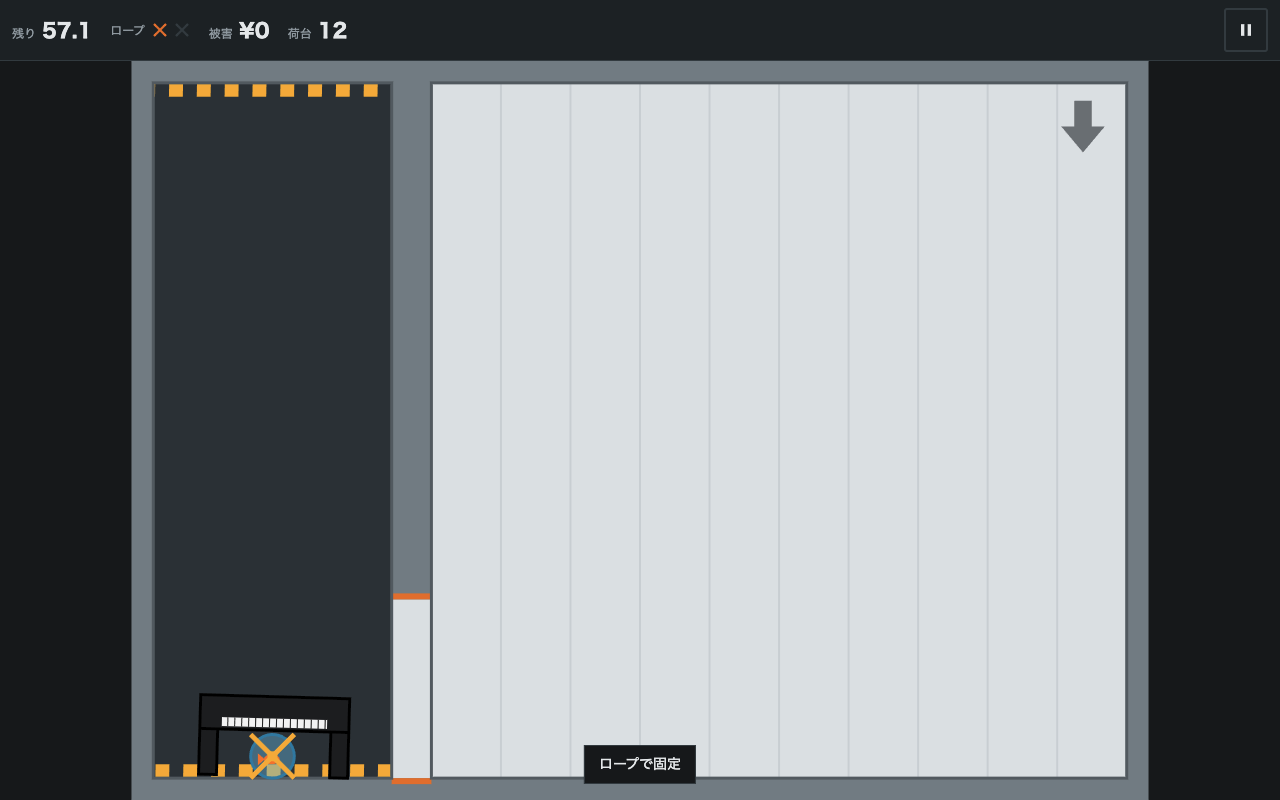
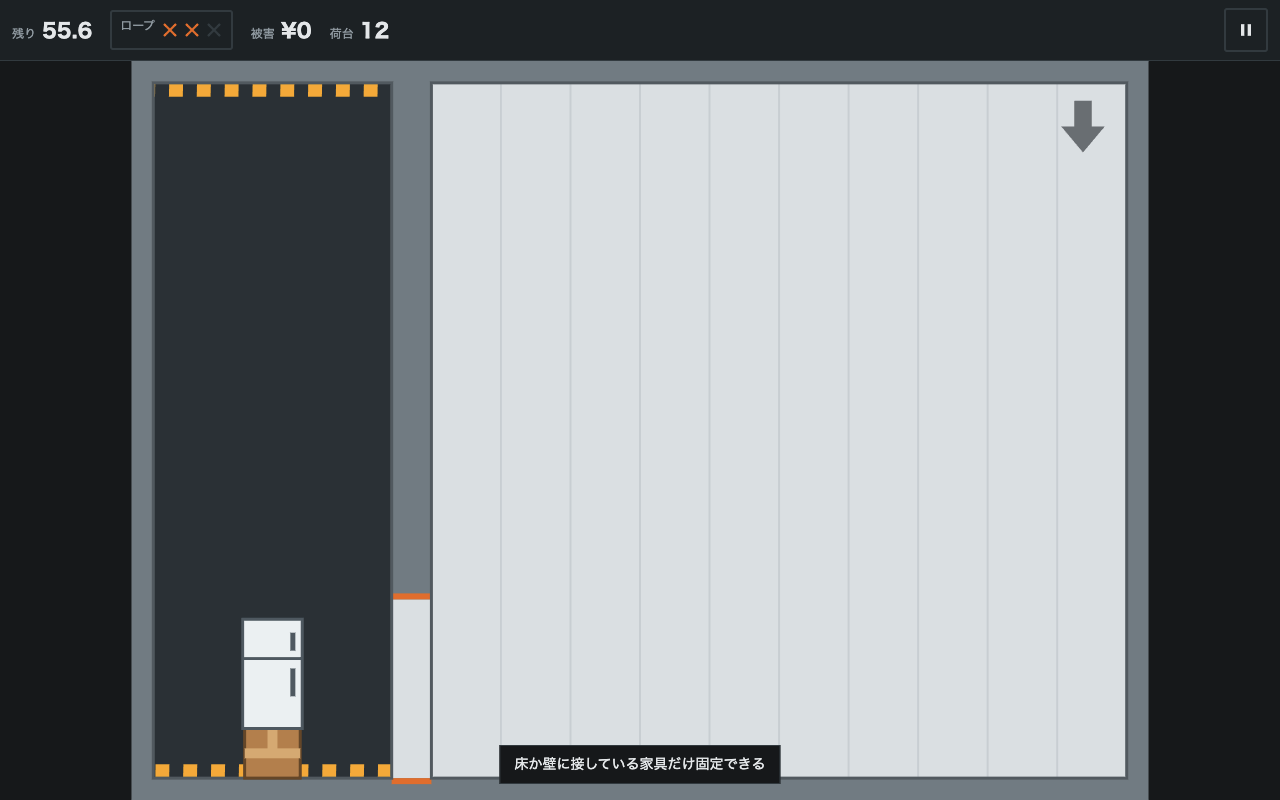
Lift touch-held items only after the finger moves, room-ceiling detection for portrait, resize on HUD wrap
- long press keeps the item on the floor so it can be tied
- Ceiling Piano requires the room's top edge (divider/door in portrait), not the bay
- ResizeObserver keeps pointer mapping right when the HUD wraps
- share prepare failure no longer leaves the button disabled
- balance check runs for both layouts; portrait tests use literal geometry

Changed region(s): [[0.1562, 0.75, 0.2812, 1.0], [0.375, 0.9062, 0.625, 1.0], [0.0312, 0.0, 0.3125, 0.0625]]

diff --git a/test/review.test.js b/test/review.test.js
@@ -9,6 +9,9 @@ const Rules = require('../src/rules.js');
 
 const FRAME = 1000 / 60;
 const ROOM = { x: 280, y: 0, w: 700, h: 700 };
+const P_BAY = { x: 0, y: 0, w: 700, h: 240 };
+const P_ROOM = { x: 0, y: 280, w: 700, h: 700 };
+const P_DOOR = { from: 0, size: 180 };
 const BAY = { x: 0, y: 0, w: 240, h: 700 };
 
 function run(world, seconds) {
@@ -18,7 +21,7 @@ function run(world, seconds) {
 // ---------- strategies for the balance check ----------
 
 /** Drop a spawned item gently onto the room surface gravity points at. */
-function placeInRoom(game, item) {
+function placeInRoom(game, item, ROOM) {
   const w = game.world;
   const g = { down: [0, 1], up: [0, -1], left: [-1, 0], right: [1, 0] }[w.gravity];
   const others = w.items.filter((it) => it !== item).map((it) => it.body);
@@ -44,15 +47,16 @@ function placeInRoom(game, item) {
   return false;
 }
 
-function playStrategy(seed, strategy) {
-  const game = Sim.createGame({ seed });
+function playStrategy(seed, strategy, layout) {
+  const game = Sim.createGame({ seed, layout });
+  const room = layout === 'portrait' ? P_ROOM : ROOM;
   let guard = 0;
   while (!game.ended && guard++ < 10000) {
     const evs = game.advance(FRAME);
     if (strategy !== 'nothing') {
       evs.filter((e) => e.type === 'spawn').forEach((e) => {
         const it = game.world.items.find((x) => x.id === e.id);
-        placeInRoom(game, it);
+        placeInRoom(game, it, room);
       });
     }
     if (strategy === 'rope') {
@@ -69,14 +73,14 @@ function playStrategy(seed, strategy) {
 
 const SEEDS = [1, 2, 3, 20261127];
 
-test('balance: placing items right away (no rope) beats doing nothing on every seed', () => {
+for (const layout of ['landscape', 'portrait']) test(`balance (${layout}): placing items right away (no rope) beats doing nothing on every seed`, () => {
   const rows = SEEDS.map((seed) => ({
     seed,
-    nothing: playStrategy(seed, 'nothing').total,
-    place: playStrategy(seed, 'place').total,
-    rope: playStrategy(seed, 'rope').total
+    nothing: playStrategy(seed, 'nothing', layout).total,
+    place: playStrategy(seed, 'place', layout).total,
+    rope: playStrategy(seed, 'rope', layout).total
   }));
-  console.log('balance', JSON.stringify(rows));
+  console.log('balance ' + layout, JSON.stringify(rows));
   for (const r of rows) {
     assert.ok(r.place > r.nothing + 3000, `seed ${r.seed}: place ${r.place} vs nothing ${r.nothing}`);
     assert.ok(r.place > 0, `seed ${r.seed}: placing should earn money, got ${r.place}`);
@@ -181,9 +185,8 @@ test('portrait layout: bay above the room, world taller than wide, door between 
   const game = Sim.createGame({ seed: 4, layout: 'portrait' });
   const b = game.world.bounds;
   assert.ok(b.bottom - b.top > (b.right - b.left) * 1.2, JSON.stringify(b));
-  const { bay, room } = game.cfg;
-  assert.ok(bay.y + bay.h <= room.y, 'bay sits above the room');
-  assert.equal(room.w, room.h, 'room is square');
+  assert.deepEqual(b, { left: 0, right: 700, top: 0, bottom: 980 });
+  const bay = P_BAY;
   // a box dragged... simply: gravity down keeps the bay's items in the bay unless over the door
   while (game.world.time < 3000) game.advance(FRAME);
   const it = game.world.items[0];
@@ -195,7 +198,9 @@ test('portrait layout: bay above the room, world taller than wide, door between 
 
 test('portrait layout: an item moved over the door opening drops into the room', () => {
   const game = Sim.createGame({ seed: 4, layout: 'portrait' });
-  const { bay, room, door } = game.cfg;
+  const bay = P_BAY;
+  const room = P_ROOM;
+  const door = P_DOOR;
   const it = game.world.addFurniture('box', door.from + door.size / 2, bay.y + bay.h - 40);
   while (game.world.time < 3000) game.advance(FRAME);
   assert.ok(game.world.isInRoom(it), JSON.stringify(it.body.position));
@@ -217,9 +222,47 @@ test('portrait layout: the truck keeps unloading beside an item, never over the 
     game.advance(FRAME).forEach((e) => { if (e.type === 'spawn') spawns.push(e); });
   }
   assert.ok(spawns.length >= 1, 'truck dropped an item beside the fridge');
-  const { bay, door } = game.cfg;
+  const bay = P_BAY;
+  const door = P_DOOR;
   for (const it of game.world.items) {
     assert.ok(it.body.position.y < bay.y + bay.h, `item ${it.kind} stayed on the bay`);
     assert.ok(it.body.bounds.min.x > door.from + door.size || it.body.bounds.max.x < door.from, 'not dropped over the door');
+  }
+});
+
+test('portrait: Ceiling Piano comes from the room ceiling (the divider), not from the bay', () => {
+  // piano in the room, gravity up: it slams into the divider/door above the room (y 280)
+  const inRoom = Sim.createGame({ seed: 8, layout: 'portrait' });
+  inRoom.world.addFurniture('piano', 450, 930);
+  while (inRoom.world.time < 1000) inRoom.advance(FRAME);
+  inRoom.world.setGravity('up');
+  while (inRoom.world.time < 4000) inRoom.advance(FRAME);
+  assert.ok(inRoom.finish().achievements.includes('ach.ceilingPiano'), 'room ceiling hit counts');
+
+  // piano left on the truck bay (y 0..240) hitting the bay ceiling: not the room's ceiling
+  const inBay = Sim.createGame({ seed: 8, layout: 'portrait', config: { bag: { box: 1 } } });
+  inBay.world.addFurniture('piano', 450, 190);
+  while (inBay.world.time < 1000) inBay.advance(FRAME);
+  inBay.world.setGravity('up');
+  while (inBay.world.time < 4000) inBay.advance(FRAME);
+  assert.ok(!inBay.finish().achievements.includes('ach.ceilingPiano'), 'bay ceiling does not count');
+});
+
+test('share: navigator.share is called synchronously from shareNow (iOS user-gesture rule)', () => {
+  const calls = [];
+  const saved = Object.getOwnPropertyDescriptor(globalThis, 'navigator');
+  Object.defineProperty(globalThis, 'navigator', {
+    configurable: true,
+    value: { share: (p) => { calls.push(p); return Promise.resolve(); }, canShare: () => true }
+  });
+  try {
+    const Share = require('../src/share.js').Share || globalThis.Share;
+    const payload = { files: ['file'], text: 'No.27 請求額 ¥1,000' };
+    const r = Share.shareNow({ canShareFiles: true, payload, intentUrl: 'x' });
+    assert.equal(calls.length, 1, 'share() ran before shareNow returned');
+    assert.equal(calls[0], payload);
+    assert.equal(r.how, 'share');
+  } finally {
+    if (saved) Object.defineProperty(globalThis, 'navigator', saved);
   }
 });

diff --git a/src/app.js b/src/app.js
@@ -121,7 +121,6 @@
       mc.constraint.stiffness = game.cfg.kinds[item.kind].stiffness;
       mc.constraint.angularStiffness = 0;
       game.world.setHeld(item, mc.constraint);
-      if (touchMode) { liftActive = true; updateMouseTransform(); }
     });
     Matter.Events.on(mc, 'enddrag', function () { game.world.setHeld(null); });
     updateMouseTransform();
@@ -148,6 +147,8 @@
     updateMouseTransform();
   }
   window.addEventListener('resize', resize);
+  // the HUD can wrap to two rows and shrink the stage without a window resize
+  if (window.ResizeObserver) new ResizeObserver(function () { resize(); }).observe(stage);
 
   function eventWorldPoint(clientX, clientY) {
     var r = board.getBoundingClientRect();
@@ -198,7 +199,12 @@
   stage.addEventListener('touchmove', function (e) {
     if (!tap) return;
     var tt = e.changedTouches[0];
-    if (Math.abs(tt.clientX - tap.x) + Math.abs(tt.clientY - tap.y) > TAP_MOVE) tap.moved = true;
+    if (Math.abs(tt.clientX - tap.x) + Math.abs(tt.clientY - tap.y) > TAP_MOVE) {
+      tap.moved = true;
+      // lift the item above the finger only once the finger actually drags,
+      // so a long press keeps it on the floor (and tieable)
+      if (!liftActive && game && game.world.held) { liftActive = true; updateMouseTransform(); }
+    }
   }, { capture: true, passive: true });
   stage.addEventListener('touchend', function () {
     clearTimeout(longPressTimer);
@@ -395,6 +401,9 @@
       if (lastResult !== result) return;
       sharePrep = p;
       shareBtn.disabled = false;
+    }).catch(function () {
+      // leave the button usable: it will retry preparing on click
+      shareBtn.disabled = false;
     });
   }
 
@@ -416,7 +425,10 @@
   }
 
   $('btn-share').addEventListener('click', function () {
-    if (!sharePrep) return;
+    if (!sharePrep) {
+      Share.prepare(shareData(), shareText()).then(function (p) { sharePrep = p; toast(t('toast.shareReady')); });
+      return;
+    }
     var r = Share.shareNow(sharePrep); // synchronous: navigator.share is called inside the gesture
     if (r.promise) r.promise.catch(function () { /* cancelled */ });
     (function () {

diff --git a/src/i18n.js b/src/i18n.js
@@ -31,6 +31,7 @@
       'toast.ropeLimit': 'ロープは同時に3本まで。どれかを外すと使える',
       'toast.ropeAirborne': '床か壁に接している家具だけ固定できる',
       'toast.ropeArmed': '固定する家具をタップ',
+      'toast.shareReady': '画像の準備ができた。もう一度押すと共有する',
       'toast.roped': 'ロープで固定',
       'toast.unroped': '固定を解除',
       'toast.released': '手がすべった',
@@ -104,6 +105,7 @@
       'toast.ropeLimit': 'Only 3 ropes at once. Untie one first',
       'toast.ropeAirborne': 'Only items touching the floor or a wall can be tied',
       'toast.ropeArmed': 'Tap an item to tie it',
+      'toast.shareReady': 'Image ready. Press again to share',
       'toast.roped': 'Tied down',
       'toast.unroped': 'Untied',
       'toast.released': 'Lost grip',

diff --git a/src/sim.js b/src/sim.js
@@ -376,7 +376,10 @@
           var ratio = otherItem ? otherItem.mass / item.mass : 1;
           ratio = Math.min(cfg.massRatioClamp[1], Math.max(cfg.massRatioClamp[0], ratio));
           var impact = rel * Math.sqrt(ratio);
-          if (other.label === 'wall:ceiling' && gravityDir === 'up' && rel > 3) {
+          // the room's ceiling: a wall touching the room's top edge (the outer
+          // ceiling in landscape, the bay divider or door in portrait)
+          if (gravityDir === 'up' && rel > 3 && other.label.indexOf('wall:') === 0 && !inBay(item) &&
+              item.body.bounds.min.y <= room.y + 8 && other.bounds.max.y <= room.y + 8) {
             emit({ type: 'ceiling', kind: item.kind, id: item.id, t: simTime });
           }
           registerImpact(item, impact, rel);
